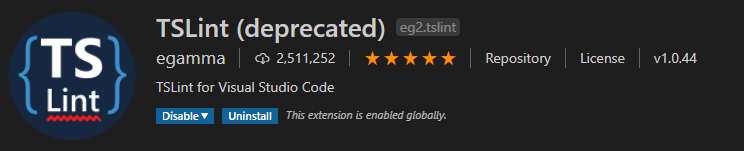
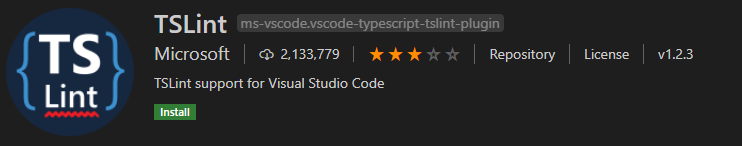
Publish

diff --git a/index.html b/index.html
@@ -243,8 +243,8 @@
                 <div class="col-md-6">
                     <div class="resume-item mb-4">
                         <span class="school mb-3">
-                            <h4><i class="fas fa-shapes"></i> TSLint (deprecated)</h4>
-                            <a href="https://marketplace.visualstudio.com/items?itemName=eg2.tslint" target="blank">
+                            <h4><i class="fas fa-shapes"></i> TSLint</h4>
+                            <a href="https://marketplace.visualstudio.com/items?itemName=ms-vscode.vscode-typescript-tslint-plugin" target="blank">
                                 Open Marketplace <i class="fas fa-link"></i>
                             </a>
                         </span>
@@ -255,7 +255,7 @@
                             . Đưa code cho người khác đọc thì
                             <img src="images/e/5.png" class="img-fluid" width="25px">
                         </p>
-                        <span class="text-white"><i class="fas fa-circle-notch fa-spin"></i> Cách dùng: </span> <a href="#"><span class="text-warning">Xem cái này nè!</span></a>
+                        <span class="text-white"><i class="fas fa-circle-notch fa-spin"></i> Cách dùng: </span> <a href="#tslint"><span class="text-warning">Xem cái này nè!</span></a>
                     </div>
                     <div class="resume-item mb-4">
                         <span class="school mb-3">
@@ -382,7 +382,7 @@
                 <div class="col-md-12">
                     <div class="resume-item mb-2">
                         <span class="school mb-4">
-                            <h4><i class="fas fa-cog fa-spin"></i> Chạy <span class="text-warning">website</span></h4>
+                            <h4><i class="fab fa-chrome fa-spin"></i> Chạy <span class="text-warning">website</span></h4>
                         </span>
                         <span class="text-white mb-2">Sau khi tạo lại thư mục node_modules, có thể chạu ngay web lên mà không cần suy nghĩ <img src="images/e/10.png" class="img-fluid" width="25px"></span>
                         <center>
@@ -626,208 +626,44 @@ export class AppRoutingModule { }
             </div>
         </div>
     </section>
-    <section class="site-section">
+    <section class="site-section pt-0 pb-0" id="section-tips">
         <div class="container">
-            <div class="row mb-5">
-                <div class="col-md-12">
-                    <div class="section-heading text-center">
-                        <h2>Client <strong>Testimonial</strong></h2>
-                    </div>
-                </div>
-            </div>
             <div class="row">
-                <div class="col-md-6">
-                    <div class="block-47 d-flex mb-5">
-                        <div class="block-47-image">
-                            <img src="images/person_1.jpg" alt="Image placeholder" class="img-fluid">
-                        </div>
-                        <blockquote class="block-47-quote">
-                            <p>&ldquo;Far far away, behind the word mountains, far from the countries Vokalia and Consonantia, there live the blind texts. Separated they live in Bookmarksgrove right at the coast of the Semantics, a large language ocean.&rdquo;</p>
-                            <cite class="block-47-quote-author">&mdash; Ethan McCown, CEO <a href="#">XYZ Inc.</a></cite>
-                        </blockquote>
-                    </div>
-                </div>
-                <div class="col-md-6">
-                    <div class="block-47 d-flex mb-5">
-                        <div class="block-47-image">
-                            <img src="images/person_2.jpg" alt="Image placeholder" class="img-fluid">
-                        </div>
-                        <blockquote class="block-47-quote">
-                            <p>&ldquo;Far far away, behind the word mountains, far from the countries Vokalia and Consonantia, there live the blind texts. Separated they live in Bookmarksgrove right at the coast of the Semantics, a large language ocean.&rdquo;</p>
-                            <cite class="block-47-quote-author">&mdash; Craig Gowen, CEO <a href="#">XYZ Inc.</a></cite>
-                        </blockquote>
-                    </div>
-                </div>
-                <div class="col-md-6">
-                    <div class="block-47 d-flex mb-5">
-                        <div class="block-47-image">
-                            <img src="images/person_3.jpg" alt="Image placeholder" class="img-fluid">
-                        </div>
-                        <blockquote class="block-47-quote">
-                            <p>&ldquo;Far far away, behind the word mountains, far from the countries Vokalia and Consonantia, there live the blind texts. Separated they live in Bookmarksgrove right at the coast of the Semantics, a large language ocean.&rdquo;</p>
-                            <cite class="block-47-quote-author">&mdash; Ethan McCown, CEO <a href="#">XYZ Inc.</a></cite>
-                        </blockquote>
-                    </div>
-                </div>
-                <div class="col-md-6">
-                    <div class="block-47 d-flex mb-5">
-                        <div class="block-47-image">
-                            <img src="images/person_4.jpg" alt="Image placeholder" class="img-fluid">
-                        </div>
-                        <blockquote class="block-47-quote">
-                            <p>&ldquo;Far far away, behind the word mountains, far from the countries Vokalia and Consonantia, there live the blind texts. Separated they live in Bookmarksgrove right at the coast of the Semantics, a large language ocean.&rdquo;</p>
-                            <cite class="block-47-quote-author">&mdash; Craig Gowen, CEO <a href="#">XYZ Inc.</a></cite>
-                        </blockquote>
-                    </div>
-                </div>
-            </div>
-        </div>
-    </section>
-    <section class="site-section pb-0" id="section-tips">
-        <div class="container">
-            <div class="row mb-4">
-                <div class="col-md-12">
+                <div class="col-md-12 mb-2">
                     <div class="section-heading text-center">
                         <h2>Mẹo <strong>Angular</strong></h2>
                     </div>
                 </div>
-            </div>
-            <div class="row">
-                <div class="col-md-6 col-lg-4 text-center mb-5">
-                    <div class="site-service-item site-animate" data-animate-effect="fadeIn">
-                        <span class="icon">
-                            <span class="icon-browser2"></span>
+                <div class="col-md-6">
+                    <div class="resume-item mb-4" id="tslint">
+                        <span class="school mb-3">
+                            <h4><img src="images/e/1.gif" class="img-fluid" width="35px" style="padding-bottom: .2em;"> Format code</h4>
                         </span>
-                        <h3 class="mb-4">Web Design</h3>
-                        <p>Far far away, behind the word mountains, far from the countries Vokalia and Consonantia, there live the blind texts. Separated they live in Bookmarksgrove right at the coast of the Semantics, a large language ocean.</p>
-                        <p><a href="#" class="site-link">Learn More <i class="icon-chevron-right"></i></a></p>
+                        <p class="text-white">Chuyện format code cho nó đẹp là điều không bắt buộc...còn có bị mất tình cảm anh chị em cô dì chú bác gì đó hay không thì mình không khẳng định đâu nhá 
+                            <img src="images/e/2.png" class="img-fluid" width="25px">
+                        </p>
+                        <img src="images/21.png" alt="Image placeholder" class="img-fluid mb-4">
+                        <p class="text-white">Mở code lên mà cả một bầu trời vàng choé như thế này thì dẹp...nghỉ khoẻ <img src="images/e/4.png" class="img-fluid" width="25px"></p>
+                        <p class="text-white">Đến đây thì là thời của anh TSLint:</p>
+                        <ul>
+                            <li><span class="text-white">B1: Dùng phím tắt<span class="text-warning"> Alt + Shift + F</span> để giải quyết sơ bãi chiến trường.</span></li>
+                            <li><span class="text-white">B2: Tại các dòng còn báo lỗi bấm <span class="text-warning"> Ctr + . (Cần trô chấm)</span> để hiển thị các tuỳ chọn fix.</span></li>
+                        </ul>
                     </div>
                 </div>
-                <div class="col-md-6 col-lg-4 text-center mb-5">
-                    <div class="site-service-item site-animate" data-animate-effect="fadeIn">
-                        <span class="icon">
-                            <span class="icon-presentation"></span>
+                <div class="col-md-6">
+                    <div class="resume-item mb-4" id="tslint">
+                        <span class="school mb-3">
+                            <h4><img src="images/e/2.gif" class="img-fluid" width="35px" style="padding-bottom: .2em;"> SCSS</h4>
                         </span>
-                        <h3 class="mb-4">Search Engine Optimization</h3>
-                        <p>A small river named Duden flows by their place and supplies it with the necessary regelialia. It is a paradisematic country, in which roasted parts of sentences fly into your mouth.</p>
-                        <p><a href="#" class="site-link">Learn More <i class="icon-chevron-right"></i></a></p>
+                        <p class="text-white">Hiện tại Digo đang dùng Router Angular để chuyển trang mà không load lại. Tốc độ khá nhanh tuy nhiên ở một số trường hợp CSS của trang trước không mất đi mà lại có tác dụng cho cả màn hình sau gây lỗi  
+                            <img src="images/e/11.png" class="img-fluid" width="25px">
+                        </p>
+                        <p class="text-white">Để tương tác với các phần tử Angular, đôi khi phải dùng thẻ <span class="text-warning">::ng-deep</span> .Nhưng khi dùng thẻ này thì tất cả các class (hoặc id) trùng tên đều áp dụng css đó.</p>
+                        <p class="text-white">Ví dụ: Khi dùng <span class="text-warning">::ng-deep .test {color: #ff0000;}</span> thì tất cả các thẻ có class <span class="text-warning">test</span> đều có màu chữ #ff0000</p>
+                        <img src="images/23.png" alt="Image placeholder" class="img-fluid mb-4">
+                        <p class="text-white font-weight-bold mb-3">Vì thế khi viết css phải đi từ <span class="text-warning">Class Cha</span> <i class="fas fa-long-arrow-alt-right"></i> <span class="text-danger">Class Con</span> <i class="fas fa-long-arrow-alt-right"></i> <span class="text-success">Class Cháu</span></p>
                     </div>
-                </div>
-                <div class="col-md-6 col-lg-4 text-center mb-5">
-                    <div class="site-service-item site-animate" data-animate-effect="fadeIn">
-                        <span class="icon">
-                            <span class="icon-video2"></span>
-                        </span>
-                        <h3 class="mb-4">Video Editing</h3>
-                        <p>Even the all-powerful Pointing has no control about the blind texts it is an almost unorthographic life One day however a small line of blind text by the name of Lorem Ipsum decided to leave for the far World of Grammar.</p>
-                        <p><a href="#" class="site-link">Learn More <i class="icon-chevron-right"></i></a></p>
-                    </div>
-                </div>
-            </div>
-        </div>
-    </section>
-    <section class="site-section" id="section-blog">
-        <div class="container">
-            <div class="row">
-                <div class="col-md-12 mb-5">
-                    <div class="section-heading text-center">
-                        <h2>Blog on <strong>Medium</strong></h2>
-                    </div>
-                </div>
-            </div>
-            <div class="row">
-                <div class="col-sm-6 col-lg-4 mb-4">
-                    <div class="blog-entry">
-                        <a href="#"><img src="images/post_1.jpg" alt="Image placeholder" class="img-fluid"></a>
-                        <div class="blog-entry-text">
-                            <h3><a href="#">Creative Product Designer From Facebook</a></h3>
-                            <p class="mb-4">Even the all-powerful Pointing has no control about the blind texts it is an almost unorthographic.</p>
-                            <div class="meta">
-                                <a href="#"><span class="icon-calendar"></span> Aug 7, 2018</a>
-                                <a href="#"><span class="icon-bubble"></span> 5 Comments</a>
-                            </div>
-                        </div>
-                    </div>
-                </div>
-                <div class="col-sm-6 col-lg-4 mb-4">
-                    <div class="blog-entry">
-                        <a href="#"><img src="images/post_2.jpg" alt="Image placeholder" class="img-fluid"></a>
-                        <div class="blog-entry-text">
-                            <h3><a href="#">Creative Product Designer From Facebook</a></h3>
-                            <p class="mb-4">Even the all-powerful Pointing has no control about the blind texts it is an almost unorthographic.</p>
-                            <div class="meta">
-                                <a href="#"><span class="icon-calendar"></span> Aug 7, 2018</a>
-                                <a href="#"><span class="icon-bubble"></span> 5 Comments</a>
-                            </div>
-                        </div>
-                    </div>
-                </div>
-                <div class="col-sm-6 col-lg-4 mb-4">
-                    <div class="blog-entry">
-                        <a href="#"><img src="images/post_3.jpg" alt="Image placeholder" class="img-fluid"></a>
-                        <div class="blog-entry-text">
-                            <h3><a href="#">Creative Product Designer From Facebook</a></h3>
-                            <p class="mb-4">Even the all-powerful Pointing has no control about the blind texts it is an almost unorthographic.</p>
-                            <div class="meta">
-                                <a href="#"><span class="icon-calendar"></span> Aug 7, 2018</a>
-                                <a href="#"><span class="icon-bubble"></span> 5 Comments</a>
-                            </div>
-                        </div>
-                    </div>
-                </div>
-            </div>
-        </div>
-    </section>
-    <section class="site-section" id="section-contact">
-        <div class="container">
-            <div class="row">
-                <div class="col-md-12 mb-5">
-                    <div class="section-heading text-center">
-                        <h2>Get <strong>In Touch</strong></h2>
-                    </div>
-                </div>
-                <div class="col-md-7 mb-5 mb-md-0">
-                    <form action="" class="site-form">
-                        <h3 class="mb-5">Get In Touch</h3>
-                        <div class="form-group">
-                            <input type="text" class="form-control px-3 py-4" placeholder="Your Name">
-                        </div>
-                        <div class="form-group">
-                            <input type="email" class="form-control px-3 py-4" placeholder="Your Email">
-                        </div>
-                        <div class="form-group">
-                            <input type="email" class="form-control px-3 py-4" placeholder="Your Phone">
-                        </div>
-                        <div class="form-group mb-5">
-                            <textarea class="form-control px-3 py-4" cols="30" rows="10" placeholder="Write a Message"></textarea>
-                        </div>
-                        <div class="form-group">
-                            <input type="submit" class="btn btn-primary  px-4 py-3" value="Send Message">
-                        </div>
-                    </form>
-                </div>
-                <div class="col-md-5 pl-md-5">
-                    <h3 class="mb-5">My Contact Details</h3>
-                    <ul class="site-contact-details">
-                        <li>
-                            <span class="text-uppercase">Email</span>
-                            site@gmail.com
-                        </li>
-                        <li>
-                            <span class="text-uppercase">Phone</span>
-                            +30 976 1382 9921
-                        </li>
-                        <li>
-                            <span class="text-uppercase">Fax</span>
-                            +30 976 1382 9922
-                        </li>
-                        <li>
-                            <span class="text-uppercase">Address</span>
-                            San Francisco, CA <br>
-                            4th Floor8 Lower <br>
-                            San Francisco street, M1 50F
-                        </li>
-                    </ul>
                 </div>
             </div>
         </div>
@@ -846,25 +682,12 @@ export class AppRoutingModule { }
     </div>
     <footer class="site-footer">
         <div class="container">
-            <div class="row mb-5">
+            <div class="row mb-2">
                 <p class="col-12 text-center">
-                    <!-- Link back to Colorlib can't be removed. Template is licensed under CC BY 3.0. -->
                     Copyright &copy; <script>
                     document.write(new Date().getFullYear());
-                    </script> All rights reserved | This template is made with <i class="icon-heart text-danger" aria-hidden="true"></i> by <a href="https://colorlib.com" target="_blank" class="text-primary">Colorlib</a>
-                    <!-- Link back to Colorlib can't be removed. Template is licensed under CC BY 3.0. -->
+                    </script> CNStudios all rights reserved
                 </p>
-            </div>
-            <div class="row mb-5">
-                <div class="col-md-12 text-center">
-                    <p>
-                        <a href="#" class="social-item"><span class="icon-facebook2"></span></a>
-                        <a href="#" class="social-item"><span class="icon-twitter"></span></a>
-                        <a href="#" class="social-item"><span class="icon-instagram2"></span></a>
-                        <a href="#" class="social-item"><span class="icon-linkedin2"></span></a>
-                        <a href="#" class="social-item"><span class="icon-vimeo"></span></a>
-                    </p>
-                </div>
             </div>
         </div>
     </footer>

diff --git a/css/style.css b/css/style.css
@@ -347,8 +347,7 @@ a:active {
 .site-service-item .icon {
     display: block;
     margin-bottom: 50px;
-    background: #edf0f2;
-    background: #bac964;
+    background: transparent;
     width: 100px;
     height: 100px;
     position: relative;
